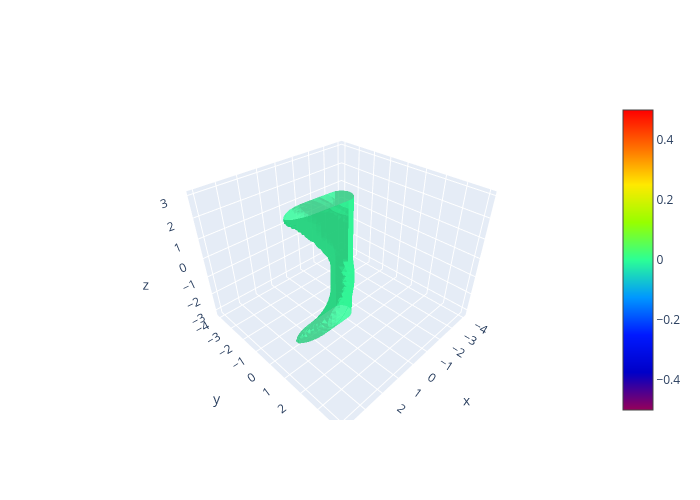
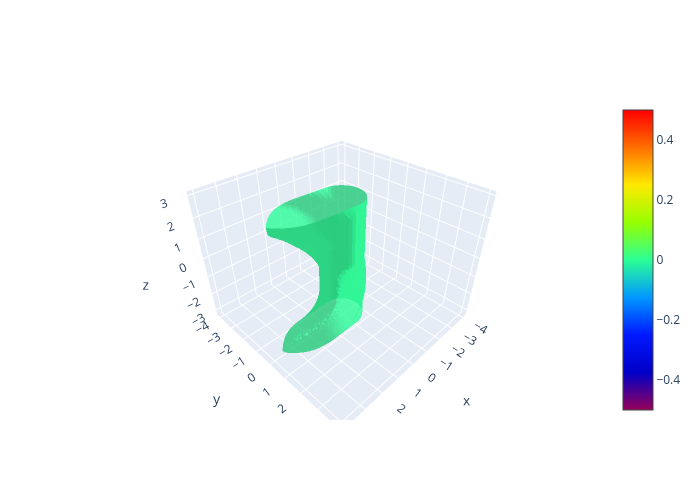
pursuit evasion example works

Changed region(s): [[0.36, 0.36, 0.54, 0.72]]

diff --git a/paper_examples/odp_paper/pursuit_evasion3d_game.py b/paper_examples/odp_paper/pursuit_evasion3d_game.py
@@ -18,21 +18,21 @@ import math
 
 
 # Define grid
-grid = Grid(np.array([-4.0, -4.0, -math.pi]), np.array([4.0, 4.0, math.pi]), 3, np.array([40, 40, 40]), [2])
+grid = Grid(np.array([-4.0, -4.0, -math.pi]), np.array([4.0, 4.0, math.pi]), 3, np.array([60, 60, 40]), [2])
 
 # # Implicit function for the initial value function
 # Initial_value_f = CylinderShape(grid, [2], np.zeros(3), 1)
 
 # # Look-back length and time step of computation
 lookback_length = 4.
-t_step = 0.05
+t_step = 0.1
 
 small_number = 1e-5
 tau = np.arange(start=0, stop=lookback_length + small_number, step=t_step)
 
 # uMode maximizing means avoiding capture, dMode minimizing means capturing
-rel_dyn = DubinsCapture(uMode="max", dMode="min")
-dubins3d = DubinsCar(x=[0,0,0], wMax=1, speed=1, dMax=[0,0,0], uMode="min", dMode="max")
+rel_dyn = DubinsCapture(uMode="max", dMode="min", wMax=1.0, dMax=1.0, speed=1.0)
+dubins3d = DubinsCar(x=[0,0,0], wMax=1, speed=1, dMax=[0,0,0])
 
 current_file_path = os.path.abspath(__file__)
 current_directory = os.path.dirname(current_file_path)
@@ -41,11 +41,11 @@ rel_finaltime_hj_value = np.load("paper_examples/odp_paper/hj_values/pursuit_eva
 rel_alltime_hj_value = np.load("paper_examples/odp_paper/hj_values/pursuit_evasion3d_TrueAllTimeSteps_4.0.npy")  # for pursuer
 
 # 1. Initialize the game
-T = 1.25  # total game time
-t = 0.05  # time step
+T = 4.  # total game time
+delta_t = 0.1  # time step
 
-pursuer_init = np.array([0.3, 0.0, 3.14])
-evader_init = np.array([0.0, -1.0, 1.57])
+pursuer_init = np.array([3.25, 0.0, -3.14])
+evader_init = np.array([0.0, 0., 0.])
 
 pursuer_current = pursuer_init
 evader_current = evader_init
@@ -58,17 +58,17 @@ rel_state = compute_relative_state(pursuer_current, evader_current)
 init_value = grid.get_values(rel_finaltime_hj_value, rel_state)
 print(f"########## The initial HJ value is {init_value}. ##########")
 
-for step in range(int(T/t)):
+for step in range(int(T/delta_t)):
     # Log the states
     pursuer_traj.append(pursuer_current.copy())
     evader_traj.append(evader_current.copy())
     
     # Compute the controls for the pursuer and the evader
     rel_state = compute_relative_state(pursuer_current, evader_current)
-    spat_deriv = spa_deriv(grid.get_indices(rel_state), rel_finaltime_hj_value[..., np.newaxis], grid, [2])
+    # spat_deriv = spa_deriv(grid.get_indices(rel_state), rel_finaltime_hj_value[..., np.newaxis], grid, [2])
     
     # Print out the HJ value
-    print(f"********* The current HJ value is {grid.get_values(rel_finaltime_hj_value, rel_state)}. ********")
+    # print(f"********* The current HJ value is {grid.get_values(rel_finaltime_hj_value, rel_state)}. ********")
     
     # pursuer_control = rel_dyn.optDistb_inPython(pursuer_current, spat_deriv)
     pursuer_control = compute_pursuer_control(hjvalue=rel_alltime_hj_value,
@@ -77,14 +77,14 @@ for step in range(int(T/t)):
                                               rel_state=rel_state,
                                               tau=tau)
     # evader_control = rel_dyn.optCtrl_inPython(evader_current, spat_deriv)
-    evader_control = 0.0
+    evader_control = -dubins3d.wMax
     
     # Update the states with controls
-    pursuer_current = tuple_to_arr(dubins3d.forward(1.0/t, pursuer_current, pursuer_control))
-    evader_current = tuple_to_arr(dubins3d.forward(1.0/t, evader_current, evader_control))
+    pursuer_current = tuple_to_arr(dubins3d.forward(1.0/delta_t, pursuer_current, pursuer_control))
+    evader_current = tuple_to_arr(dubins3d.forward(1.0/delta_t, evader_current, evader_control))
     
     # Check the status
-    if np.linalg.norm(pursuer_current[:2] - evader_current[:2]) <= 0.2:
+    if np.linalg.norm(pursuer_current[:2] - evader_current[:2]) <= 1.:
         pursuer_traj.append(pursuer_current.copy())
         evader_traj.append(evader_current.copy())
         print(f"########## Game is over. #######")

diff --git a/paper_examples/odp_paper/pursuit_evasion3d_value.py b/paper_examples/odp_paper/pursuit_evasion3d_value.py
@@ -15,20 +15,20 @@ from odp.solver import HJSolver, computeSpatDerivArray
 import math
 
 # Define grid
-grid = Grid(np.array([-4.0, -4.0, -math.pi]), np.array([4.0, 4.0, math.pi]), 3, np.array([40, 40, 40]), [2])
+grid = Grid(np.array([-4.0, -4.0, -math.pi]), np.array([4.0, 4.0, math.pi]), 3, np.array([60, 60, 40]), [2])
 
 # Implicit function for the initial value function
-Initial_value_f = CylinderShape(grid, [2], np.zeros(2), 0.2)
+Initial_value_f = CylinderShape(grid, [2], np.zeros(2), 1.)
 
 # Look-back length and time step of computation
 lookback_length = 4.
-t_step = 0.05
+t_step = 0.1
 
 small_number = 1e-5
 tau = np.arange(start=0, stop=lookback_length + small_number, step=t_step)
 
 # uMode maximizing means avoiding capture, dMode minimizing means capturing
-my_car = DubinsCapture(uMode="max", dMode="min")
+my_car = DubinsCapture(uMode="max", dMode="min", wMax=1.0, dMax=1.0, speed=1.0)
 
 # Specify how to plot the isosurface of the value function ( for higher-than-3-dimension arrays, which slices, indices
 # we should plot if we plot at all )
@@ -50,7 +50,7 @@ result = HJSolver(dynamics_obj=my_car,
 
 np.save(f"{current_directory}/hj_values/pursuit_evasion3d_{saveAllTimeSteps}AllTimeSteps_{lookback_length}.npy", result)
 print(f"********** HJ value function is saved at {current_directory}/hj_values/pursuit_evasion3d_{saveAllTimeSteps}AllTimeSteps_{lookback_length}.npy. **********")
-# plot_isosurface(g, result, po2)
+plot_isosurface(grid, result, po2)
 
 # if saveAllTimeSteps:
 #     last_time_step_result = result[..., 0]

diff --git a/paper_examples/odp_paper/utils.py b/paper_examples/odp_paper/utils.py
@@ -17,14 +17,18 @@ def compute_pursuer_control(hjvalue, rel_dyn, grid, rel_state, tau):
     """
     hjvalue (np.array): the hj value function with all time slices
     """
-    neg2pos, pos2neg = find_sign_change(grid, hjvalue, rel_state, tau)
+    neg2pos, pos2neg, current_value = find_sign_change(grid, hjvalue, rel_state, tau)
     if len(neg2pos):
-        current_value = grid.get_value(hjvalue[..., 0], rel_state)
-        if current_value > 0:
-            hjvalue = hjvalue - current_value
-        value = hjvalue[..., neg2pos]
+        # current_value = grid.get_value(hjvalue[..., 0], rel_state)
+        # if current_value > 0:
+        #     hjvalue = hjvalue - current_value
+        value = hjvalue[..., neg2pos[0]]
         spat_deriv = spa_deriv(grid.get_index(rel_state), value, grid, [2])
-        control = rel_dyn.optDistb_inPython(rel_state, spat_deriv)
+        print(f"neg2pos is {neg2pos} current_value is {current_value[neg2pos[0]]}")
+        # control = rel_dyn.optDistb_inPython(rel_state, spat_deriv)
+        control = rel_dyn.wMax
+        if spat_deriv[2] > 0: # pursuer minimizes - opposite sign 
+            control = -rel_dyn.wMax
     else:
         control = (0.0)
     
